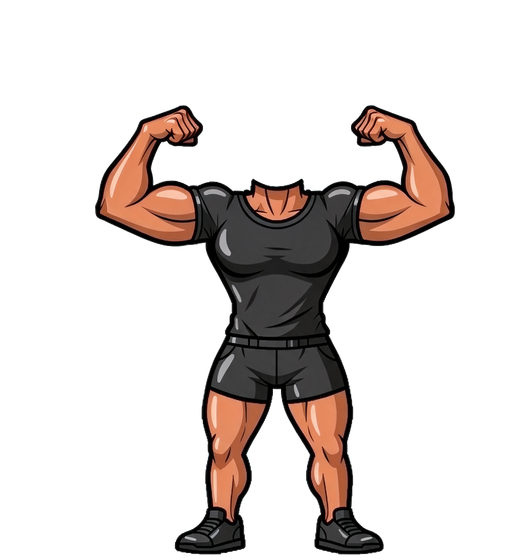
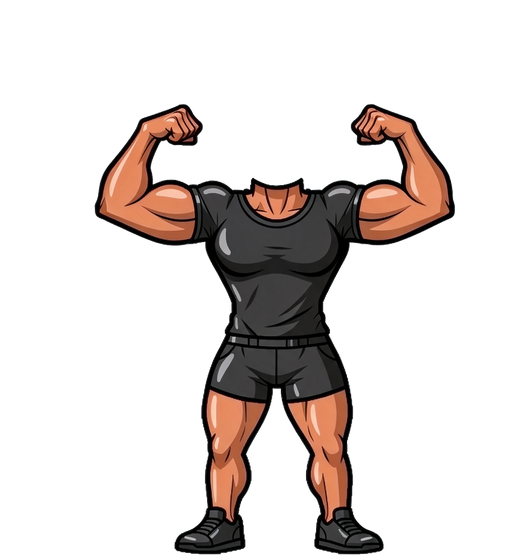
Gym Bros: bigger leg steps across men's levels 5–7
Claude-Session: https://claude.ai/code/session_01JFp6iswHHaXm5YTZNqTb2P

diff --git a/src/components/social/broGeo.ts b/src/components/social/broGeo.ts
@@ -3,18 +3,18 @@
  * by height) and its radius (by height). The same for every picture, so the logo never moves between levels. */
 export type BroKey = 'm1' | 'm2' | 'm3' | 'm4' | 'm5' | 'm6' | 'm7' | 'w1' | 'w2' | 'w3' | 'w4' | 'w5' | 'w6' | 'w7';
 export const BRO_GEO: Record<BroKey, [number, number, number, number]> = {
-  m1: [0.9494, 0.4889, 0.2777, 0.094],
-  m2: [0.9494, 0.4889, 0.2777, 0.094],
-  m3: [0.9494, 0.4889, 0.2777, 0.094],
-  m4: [0.9494, 0.4889, 0.2777, 0.094],
-  m5: [0.9494, 0.4889, 0.2777, 0.094],
-  m6: [0.9494, 0.4889, 0.2777, 0.094],
-  m7: [0.9494, 0.4889, 0.2777, 0.094],
-  w1: [0.9494, 0.4889, 0.2777, 0.094],
-  w2: [0.9494, 0.4889, 0.2777, 0.094],
-  w3: [0.9494, 0.4889, 0.2777, 0.094],
-  w4: [0.9494, 0.4889, 0.2777, 0.094],
-  w5: [0.9494, 0.4889, 0.2777, 0.094],
-  w6: [0.9494, 0.4889, 0.2777, 0.094],
-  w7: [0.9494, 0.4889, 0.2777, 0.094],
+  m1: [0.9486, 0.489, 0.2763, 0.094],
+  m2: [0.9486, 0.489, 0.2763, 0.094],
+  m3: [0.9486, 0.489, 0.2763, 0.094],
+  m4: [0.9486, 0.489, 0.2763, 0.094],
+  m5: [0.9486, 0.489, 0.2763, 0.094],
+  m6: [0.9486, 0.489, 0.2763, 0.094],
+  m7: [0.9486, 0.489, 0.2763, 0.094],
+  w1: [0.9486, 0.489, 0.2763, 0.094],
+  w2: [0.9486, 0.489, 0.2763, 0.094],
+  w3: [0.9486, 0.489, 0.2763, 0.094],
+  w4: [0.9486, 0.489, 0.2763, 0.094],
+  w5: [0.9486, 0.489, 0.2763, 0.094],
+  w6: [0.9486, 0.489, 0.2763, 0.094],
+  w7: [0.9486, 0.489, 0.2763, 0.094],
 };

diff --git a/ADRO-chat-log.md b/ADRO-chat-log.md
@@ -799,7 +799,7 @@ Passwords and keys are left out on purpose.
 
 **Built:**
 - All pictures edited with Seedream 5.0 Flash: forearms folded in, fists by the biceps (like the reference).
-- 7 levels each for men and women, with new in-between characters. Men: tried smaller steps first; the owner then asked for bigger differences, so men go from skinny to the big reference build.
+- 7 levels each for men and women, with new in-between characters. Men: tried smaller steps first; the owner then asked for bigger differences, so men go from skinny to the big reference build. Levels 5–7 then got progressively bigger legs (owner: more difference in the legs).
 - Every picture scaled to the same height (neck to feet) and standing on one line, so the logo sits in exactly the same place and size at every level.
 - The head is the app logo (white ring open at the top left, on the person's colour) with a glow around it. It doesn't change with level.
 - Levels from the 30-day commitment: under 30, 30–41, 42–54, 55–67, 68–79, 80–89, 90+ (Starter, Warming up, Getting there, Solid, Strong, Very strong, Beast). Someone who doesn't share it shows level 3.
